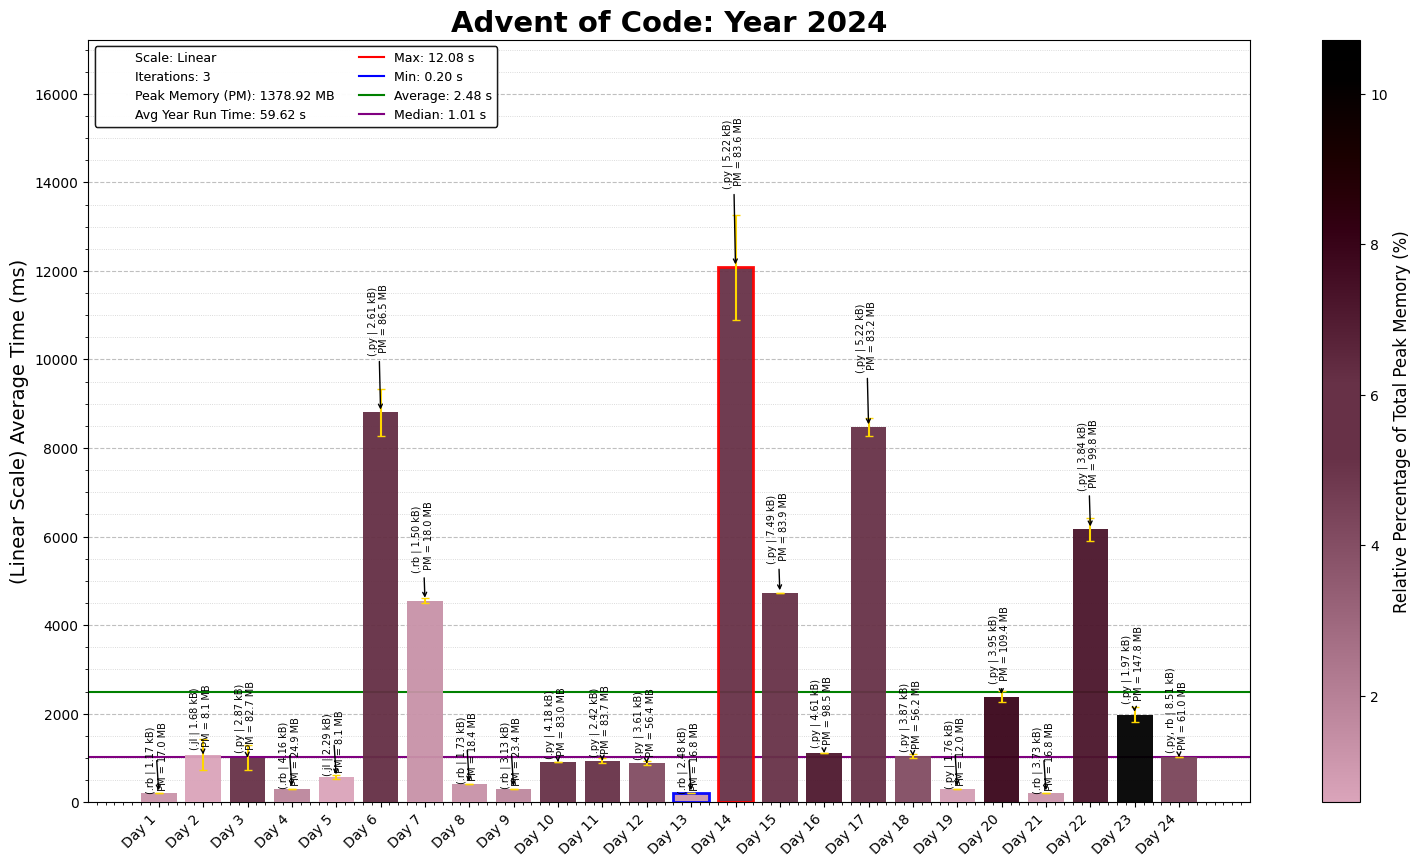
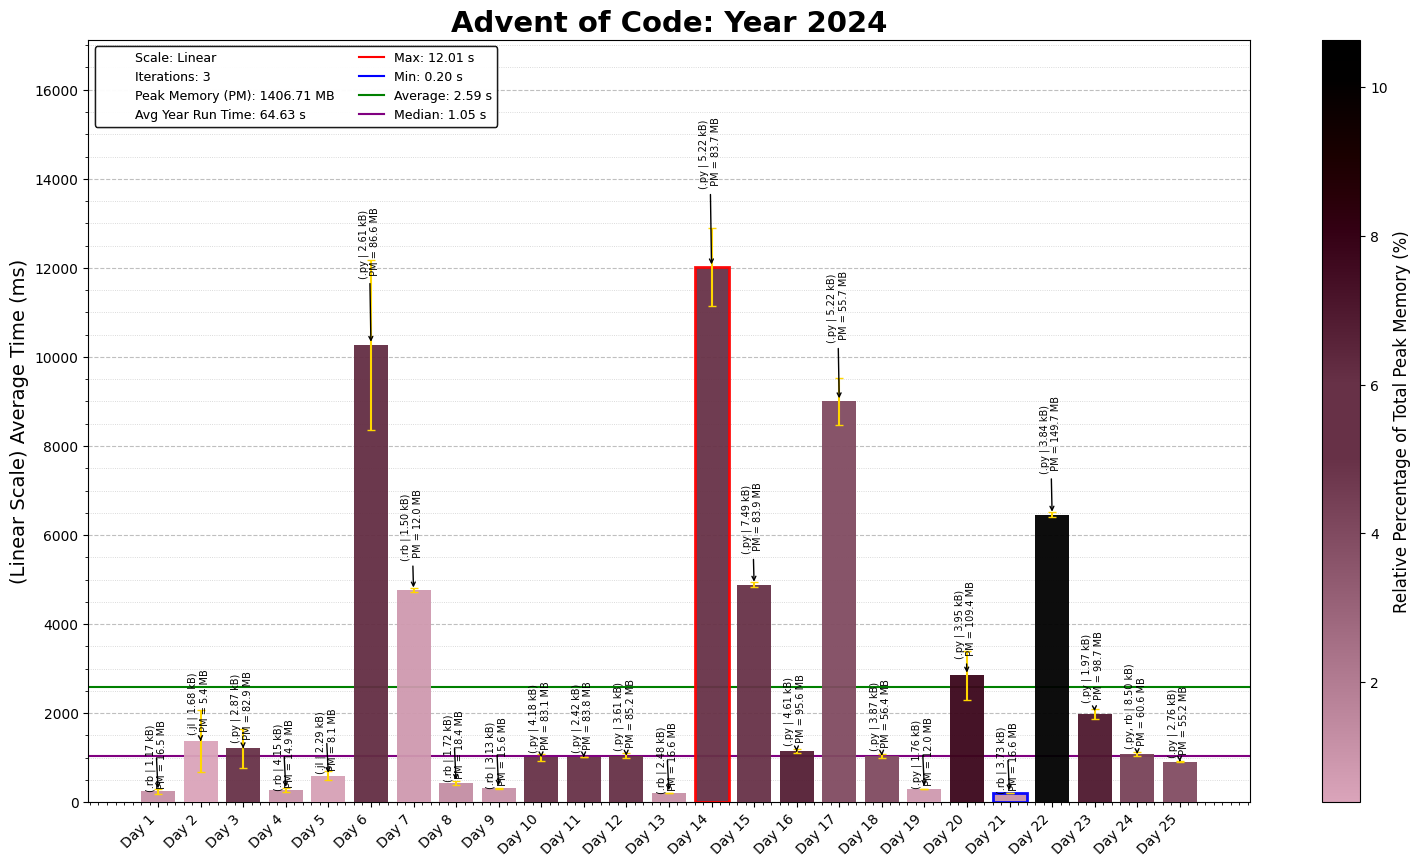
2024 Day 25

diff --git a/2024/25/2024Day25.py b/2024/25/2024Day25.py
@@ -1,0 +1,83 @@
+"""Advent of Code - Day 25, Year 2024
+Solution Started: Dec 25, 2024
+Puzzle Link: https://adventofcode.com/2024/day/25
+Solution by: abbasmoosajee07
+Brief: [Match Lock and key]
+"""
+
+#!/usr/bin/env python3
+
+import os, re, copy
+import numpy as np
+import pandas as pd
+import matplotlib.pyplot as plt
+from collections import Counter
+
+# Load the input data from the specified file path
+D25_file = "Day25_input.txt"
+D25_file_path = os.path.join(os.path.dirname(os.path.abspath(__file__)), D25_file)
+
+# Read and sort input data into a grid
+with open(D25_file_path) as file:
+    input_data = file.read().strip().split('\n\n')
+
+def find_heights(lock_grid: str):
+
+    # Convert the lock grid string into a 2D NumPy array
+    schematic_array = np.array([list(row) for row in lock_grid.strip().split('\n')], dtype=object)
+
+    # Determine schematic type based on first and last row
+    schematic_type = None
+    if ''.join(schematic_array[0]) == '#####':  # Example condition for "lock"
+        schematic_type = 'lock'
+    elif ''.join(schematic_array[-1]) == '#####':  # Example condition for "key"
+        schematic_type = 'key'
+    else:
+        raise ValueError("Unable to determine schematic type. Check the input grid format.")
+
+    # Transpose the grid to analyze columns
+    transposed_schematic = np.transpose(schematic_array)
+    all_heights = []
+
+    # Calculate the height for each column
+    for row in transposed_schematic:
+        row_count = dict(Counter(row))
+        height = row_count.get('#', 0) - 1  # Ensure height defaults to 0 if `count` is not in the row
+        all_heights.append(height)
+
+    return schematic_type, all_heights
+
+def classify_schematics(schematics: list[str]):
+
+    lock_dict, lock_no, key_dict, key_no = {}, 0, {}, 0
+
+    for schematic in schematics:
+        schematic_type, heights = find_heights(schematic)
+        if schematic_type == 'lock':
+            lock_no += 1
+            lock_dict[lock_no] = heights
+        elif schematic_type == 'key':
+            key_no += 1
+            key_dict[key_no] = heights
+
+    return lock_dict, key_dict
+
+def match_lock_key(lock_dict: dict, key_dict: dict) -> int:
+    total_matches = 0
+    for lock_no, lock_heights in lock_dict.items():
+        for key_no, key_heights in key_dict.items():
+            valid_match = True
+            for pos, height in enumerate(lock_heights):
+                total_height = height + key_heights[pos]
+                if total_height > 5:
+                    valid_match = False
+                    break
+            if valid_match is True:
+                total_matches += 1
+    return total_matches
+
+
+lock_dict, key_dict = classify_schematics(input_data)
+all_matches = match_lock_key(lock_dict, key_dict)
+print("Part 1:", all_matches)
+

diff --git a/2024/README_2024.md b/2024/README_2024.md
@@ -28,3 +28,35 @@ This repository contains coding solutions for the 2024 Advent of Code. Its the f
 22. **Day 22- Monkey Market**: *Python* | Essentially about finding patterns in a list of random numbers, which I ended up using a dictionary of lists to find the optimum point across all the 1600 lists.
 23. **Day 23- LAN Party**: *Python* | Used the gift of a library that is networkx, which may not be as elegant but it is a solution after all.
 24. **Day 24- Crossed Wires**: *Python* | Built a circuit network, fairly simple Part 1, Found a relativey fast solution for Part 2 that works on my input, but seems to get stuck on the examples
+25. **Day 25- Code Chronicle**: *Python* | Made some stupid assumptions about the problem, but otherwise fairly simple.
+
+Overall, Really enjoyed the year, but Day 15 moving blocks was definitely my favourite
+![2024 Advent Calendar](2024_Advent_Calendar.png)
+
+| Day | Part 1 Time | Part 1 Rank | Part 2 Time | Part 2 Rank |
+|-----|-------------|-------------|-------------|-------------|
+|  1  | 00:13:14    | 5227        | 00:24:15    | 5937        |
+|  2  | 01:54:26    | 20049       | 02:23:10    | 15231       |
+|  3  | 00:56:41    | 14969       | 01:41:19    | 15124       |
+|  4  | 03:24:18    | 23576       | 04:40:47    | 24482       |
+|  5  | 06:19:41    | 35055       | 06:46:08    | 28118       |
+|  6  | 05:39:40    | 30452       | 07:10:21    | 19167       |
+|  7  | 05:54:52    | 23847       | 06:19:13    | 22347       |
+|  8  | 10:09:19    | 32410       | 10:50:04    | 30819       |
+|  9  | 05:56:35    | 22580       | 07:35:04    | 16295       |
+| 10  | 11:58:18    | 32095       | 12:59:56    | 32417       |
+| 11  | 08:22:08    | 31446       | 09:22:44    | 23019       |
+| 12  | 08:37:08    | 22880       | 12:39:53    | 17329       |
+| 13  | 11:10:57    | 25599       | 11:46:32    | 20766       |
+| 14  | 12:06:05    | 25850       | 13:42:33    | 22722       |
+| 15  | 15:28:41    | 26593       | 19:24:16    | 19951       |
+| 16  | 12:44:20    | 17404       | 12:52:57    | 12387       |
+| 17  | 20:13:23    | 24630       | 21:42:37    | 14984       |
+| 18  | 00:14:42    | 1491        | 00:23:21    | 1638        |
+| 19  | 13:15:09    | 19979       | 13:16:58    | 17188       |
+| 20  | 07:23:33    | 12207       | 18:29:34    | 15082       |
+| 21  | 20:18:16    | 11734       | 22:19:28    | 8216        |
+| 22  | 02:22:42    | 6129        | 04:46:10    | 6504        |
+| 23  | 03:32:58    | 7897        | 03:51:30    | 6246        |
+| 24  | 04:19:51    | 8862        | 06:31:48    | 3648        |
+| 25  | 00:09:18    | 626         | 00:09:25    | 526         |

diff --git a/README.md b/README.md
@@ -20,8 +20,8 @@ In this repository, you’ll find:
 ## How to Use
 | Year | Stars | Time (s) | Languages        | Repository |
 |------|-------|-----------------|------------------|------------|
-| 2024 |32\*   |38.26 s |Julia/Python/Ruby| [GitHub](https://github.com/abbasmoosajee07/AdventofCode/tree/main/2024) |
-| 2023 |       |                 |                  | [GitHub](https://github.com/abbasmoosajee07/AdventofCode) |
+| 2024 |50\*   |64.63 s |Julia/Python/Ruby| [GitHub](https://github.com/abbasmoosajee07/AdventofCode/tree/main/2024) |
+| 2023 |12\*    |16.00 s|Python\Ruby| [GitHub](https://github.com/abbasmoosajee07/AdventofCode/tree/main/2023) |
 | 2022 | 50\*  |107.55 s|Julia/Python/Ruby| [GitHub](https://github.com/abbasmoosajee07/AdventofCode/tree/main/2022) |
 | 2021 | 50\*  | 40.67 s| Python/Ruby/C    | [GitHub](https://github.com/abbasmoosajee07/AdventofCode/tree/main/2021) |
 | 2020 | 50\*  | 72.70 s| Python/Ruby/C    | [GitHub](https://github.com/abbasmoosajee07/AdventofCode/tree/main/2020) |
@@ -30,6 +30,6 @@ In this repository, you’ll find:
 | 2017 | 50\*  |131.25 s| Python/Ruby/C    | [GitHub](https://github.com/abbasmoosajee07/AdventofCode/tree/main/2017) |
 | 2016 | 50\*  |264.24 s| Python/Ruby/C    | [GitHub](https://github.com/abbasmoosajee07/AdventofCode/tree/main/2016) |
 | 2015 | 50\*  |530.01 s| Python/Ruby/C/R  | [GitHub](https://github.com/abbasmoosajee07/AdventofCode/tree/main/2015) |
-| **Total** | **406\*** |                 |                  |            |
+| **Total** | **436\*** |                 |                  |            |
 
 ![alt text](analyse_AOC/overall_summary.png)
